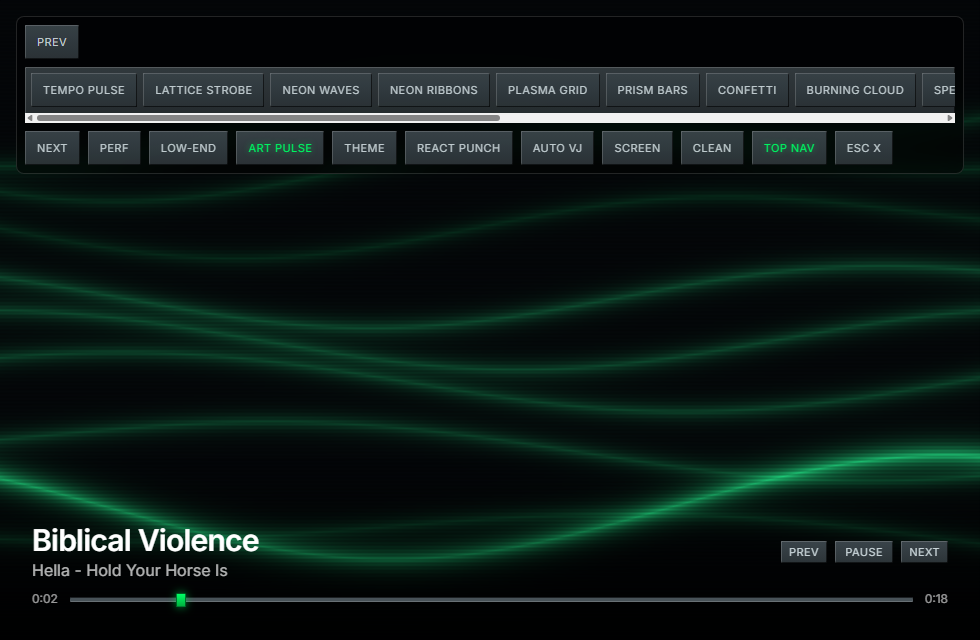
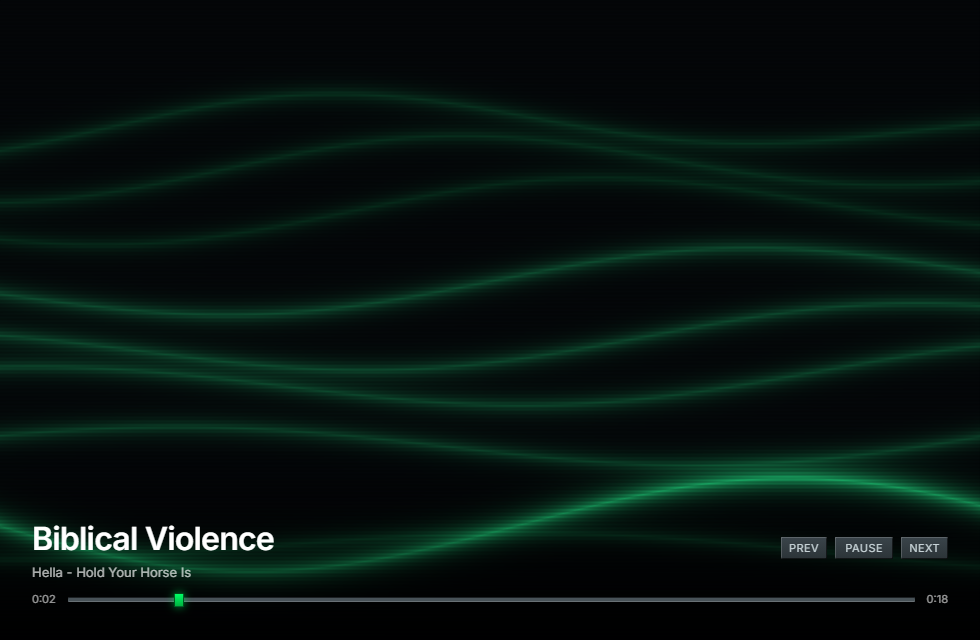
2.1 marketing screenshots: real-library harness + fresh capture set
- scripts/real-library-shots.mjs: boots the built app against a real
  library root seeded from the user's library.db (copied) and art
  cache (junction), captures Library/Home/Albums/Now Playing and
  Eviland Live takes via the shot-plan harness; --statics-only and
  --viz-only modes
- shot harness: open the 2.x preset-picker popover before hunting
  preset buttons (the old path rotted when presets moved into a
  popover)
- README: all screenshots are now current 2.1 captures against a
  59,573-track real library; retired the May pre-redesign
  "contributed" OneDrive copies and their copy mechanism
- assets: fresh feature/visualizer gallery renders, real/ and decks/
  capture sets

diff --git a/electron/main.ts b/electron/main.ts
@@ -3239,6 +3239,12 @@ function screenshotGalleryActionSource(action: string): string {
           const stage = await waitFor('fullscreen visualizer stage', () =>
             document.querySelector('[data-newamp-fullscreen-visualizer]'),
           );
+          // 2.x moved presets into a popover — open the picker before the
+          // preset buttons exist in the DOM.
+          const pickerToggle = await waitFor('preset picker toggle', () =>
+            document.querySelector('[data-newamp-viz-preset-picker-toggle]'),
+          );
+          pickerToggle.click();
           const presetButton = await waitFor('visualizer preset ' + preset, () =>
             Array.from(document.querySelectorAll('[data-newamp-viz-preset-button]'))
               .find((item) => item.getAttribute('data-newamp-viz-preset-button') === preset),

diff --git a/README.md b/README.md
@@ -48,23 +48,23 @@ Point it at your music folder, and it just starts playing — first launch even 
 
 | Home | Albums |
 | --- | --- |
-| <img src="assets/screenshots/contributed-home-pink-floyd.png" alt="NewAmp Home — greeting hero with blurred album backdrop and smart rails" width="420"> | <img src="assets/screenshots/contributed-albums-built-to-spill.png" alt="NewAmp Albums — dense cover grid that scales to thousands of albums" width="420"> |
+| <img src="assets/screenshots/real/real-home.png" alt="NewAmp 2.1 Home — Evening rotation hero, Today's Pick scored 96/100, Highest Rated shelf, and live listening stats over a 59,573-track library" width="420"> | <img src="assets/screenshots/real/real-albums.png" alt="NewAmp 2.1 Albums — dense real cover grid with alphabet rail, filter, and Surprise Me" width="420"> |
 
-| Now Playing | Synced lyrics |
+| Now Playing | Library |
 | --- | --- |
-| <img src="assets/screenshots/contributed-now-playing-facts.png" alt="NewAmp Now Playing — artist facts, live spectrum, waveform overview" width="420"> | <img src="assets/screenshots/contributed-now-playing-lyrics.png" alt="NewAmp lyrics scrolling in sync with playback" width="420"> |
+| <img src="assets/screenshots/real/real-now-playing.png" alt="NewAmp 2.1 Now Playing stage — ON AIR lamp, live spectrum, Signal Bay readout, and an honest 44.1K to 48K resample badge" width="420"> | <img src="assets/screenshots/real/real-library.png" alt="NewAmp 2.1 Library — Library Health, Archive Radar, duplicate clusters, and a search DSL over 59,573 tracks" width="420"> |
 
 **The decks** — compact modes that reshape the window into a little machine:
 
 | Record Player | Jukebox |
 | --- | --- |
-| <img src="assets/screenshots/contributed-record-player-deck.png" alt="Record player deck — spinning vinyl and a swinging tonearm" width="420"> | <img src="assets/screenshots/contributed-jukebox-deck.png" alt="Jukebox deck — chrome arch and animated bubble tubes" width="420"> |
+| <img src="assets/screenshots/decks/deck--record-player.png" alt="RP-1200 record player deck — spinning vinyl, weighted tonearm, pitch fader" width="420"> | <img src="assets/screenshots/decks/deck--jukebox.png" alt="Bandstand jukebox deck — chrome arch, A-01 title strip, coin slot" width="420"> |
 
-**The visualizers:**
+**Eviland Live** — 31 scenes, painted from the actual signal by an AI Director:
 
-| Tempo Pulse | Aurora |
+| Filament ribbons | Ember drift |
 | --- | --- |
-| <img src="assets/screenshots/visualizer-tempo-pulse-deerhoof.png" alt="Tempo Pulse visualizer — beat-locked pulse rings" width="420"> | <img src="assets/screenshots/visualizer-aurora-hella.png" alt="Aurora visualizer — flowing ribbons" width="420"> |
+| <img src="assets/screenshots/real/real-viz-eviland-1.png" alt="Eviland Live — amber filament ribbons woven live from the playing track" width="420"> | <img src="assets/screenshots/real/real-viz-eviland-2.png" alt="Eviland Live — an ember starfield with cyan waveform traces, seconds later in the same song" width="420"> |
 
 More screenshots live in `assets/screenshots/`.
 
